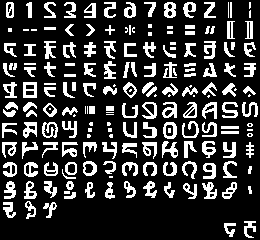
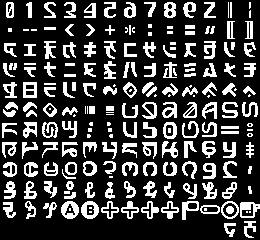
Moving more playdate files around, adding a playdate-specific gitignore to the subdirectory and adding an easter egg.

Changed region(s): [[0.2154, 0.8167, 1.0, 0.9333]]

diff --git a/playdate/matrix_c/main.c b/playdate/matrix_c/main.c
@@ -6,7 +6,6 @@
 //  Read the LICENSE file if you want to
 //
 
-// #include <stdio.h>
 #include <stdlib.h>
 #include <math.h>
 
@@ -29,7 +28,9 @@ static int numColumns;
 static int numRows;
 static int numCells;
 
-static const int numGlyphs = 133;
+static const int numStandardGlyphs = 133;
+static const int numPDGlyphs = 10;
+static const int numTotalGlyphs = numStandardGlyphs + numPDGlyphs;
 static const int numFades = 32;
 
 static const float minSpeed = 0.15;
@@ -75,19 +76,12 @@ static void init()
 	int fadeGradientWidth;
 	pd->graphics->getBitmapData(fadeGradient, &fadeGradientWidth, NULL, NULL, NULL, NULL);
 
-
-	LCDBitmap *fadeGradientTransparent = pd->graphics->loadBitmap("images/fade-gradient-transparent", NULL);
-	int wrongWidth;
-	pd->graphics->getBitmapData(fadeGradientTransparent, &wrongWidth, NULL, NULL, NULL, NULL);
-	pd->system->logToConsole("%i should be 512", wrongWidth);
-
-
-	glyphs = pd->system->realloc(NULL, sizeof(LCDBitmap *) * numGlyphs * numFades);
+	glyphs = pd->system->realloc(NULL, sizeof(LCDBitmap *) * numTotalGlyphs * numFades);
 
 	LCDBitmap *glyph = pd->graphics->newBitmap(glyphWidth, glyphWidth, kColorBlack);
 
 	pd->graphics->pushContext(glyph);
-	for (int i = 0; i < numGlyphs; i++) {
+	for (int i = 0; i < numTotalGlyphs; i++) {
 		int column = i % spritesheetColumns;
 		int row = i / spritesheetColumns;
 		pd->graphics->drawBitmap(glyphSpritesheet, -column * glyphWidth, -row * glyphWidth, kBitmapUnflipped);
@@ -121,7 +115,7 @@ static void init()
 			cell->glyphCycle = randf();
 			cell->columnTimeOffset = columnTimeOffset;
 			cell->columnSpeedOffset = columnSpeedOffset;
-			cell->glyphIndex = rand() % numGlyphs;
+			cell->glyphIndex = rand() % numStandardGlyphs;
 			cell->fadeIndex = -1;
 		}
 	}
@@ -148,6 +142,10 @@ static int update(void* ud)
 	pd->system->resetElapsedTime();
 	time += delta;
 
+	PDButtons currentButtons;
+	pd->system->getButtonState(&currentButtons, NULL, NULL);
+	int addPDGlyphs = currentButtons & kButtonA && currentButtons & kButtonB;
+
 	for (int i = 0; i < numCells; i++) {
 		int mustDraw = 0;
 		Cell *cell = &cells[i];
@@ -171,12 +169,17 @@ static int update(void* ud)
 		cell->glyphCycle = cell->glyphCycle + delta * 2;
 		if (cell->glyphCycle > 1) {
 			cell->glyphCycle = fmod(cell->glyphCycle, 1);
-			int glyphIndex = (cell->glyphIndex + (rand() % 20)) % numGlyphs;
-			if (cell->glyphIndex != glyphIndex) {
-				cell->glyphIndex = glyphIndex;
-				if (fadeIndex < numFades - 1) {
-					mustDraw = 1;
+			int lastGlyphIndex = cell->glyphIndex;
+			while (cell->glyphIndex == lastGlyphIndex) {
+				cell->glyphIndex = rand();
+				if (addPDGlyphs && rand() % 4 == 0) {
+					cell->glyphIndex = numStandardGlyphs + cell->glyphIndex % numPDGlyphs;
+				} else {
+					cell->glyphIndex = cell->glyphIndex % numStandardGlyphs;
 				}
+			}
+			if (fadeIndex < numFades - 1) {
+				mustDraw = 1;
 			}
 		}
 
